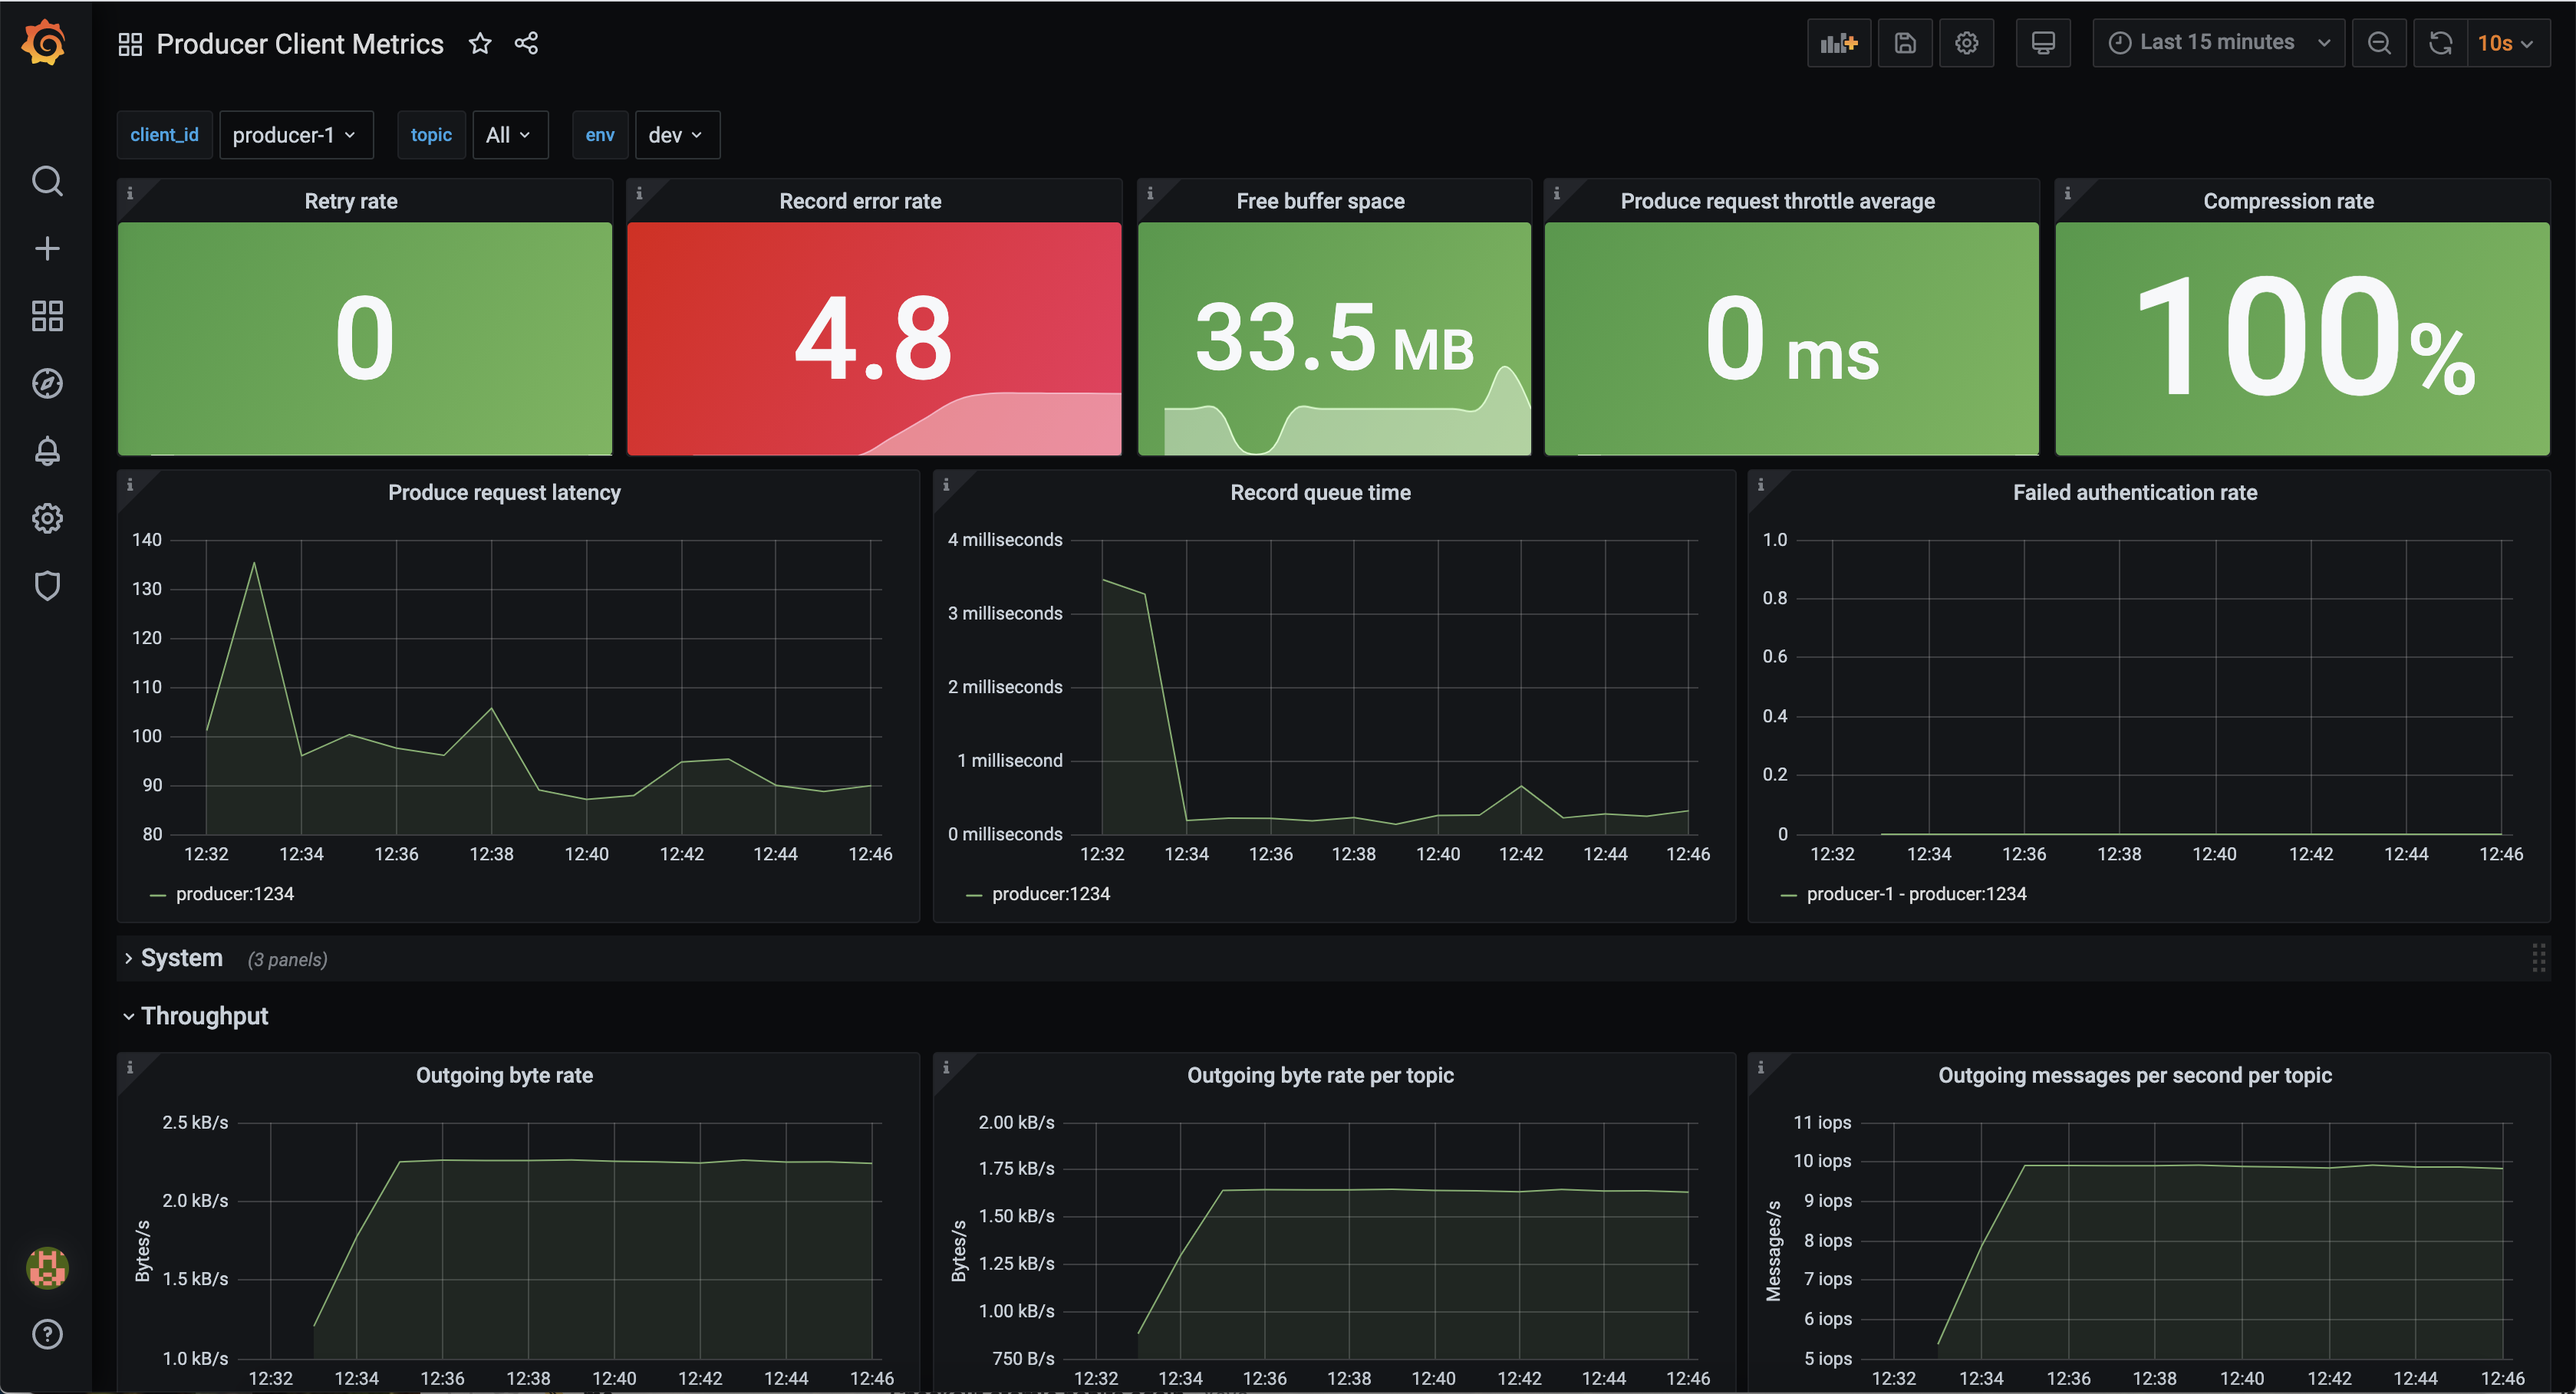
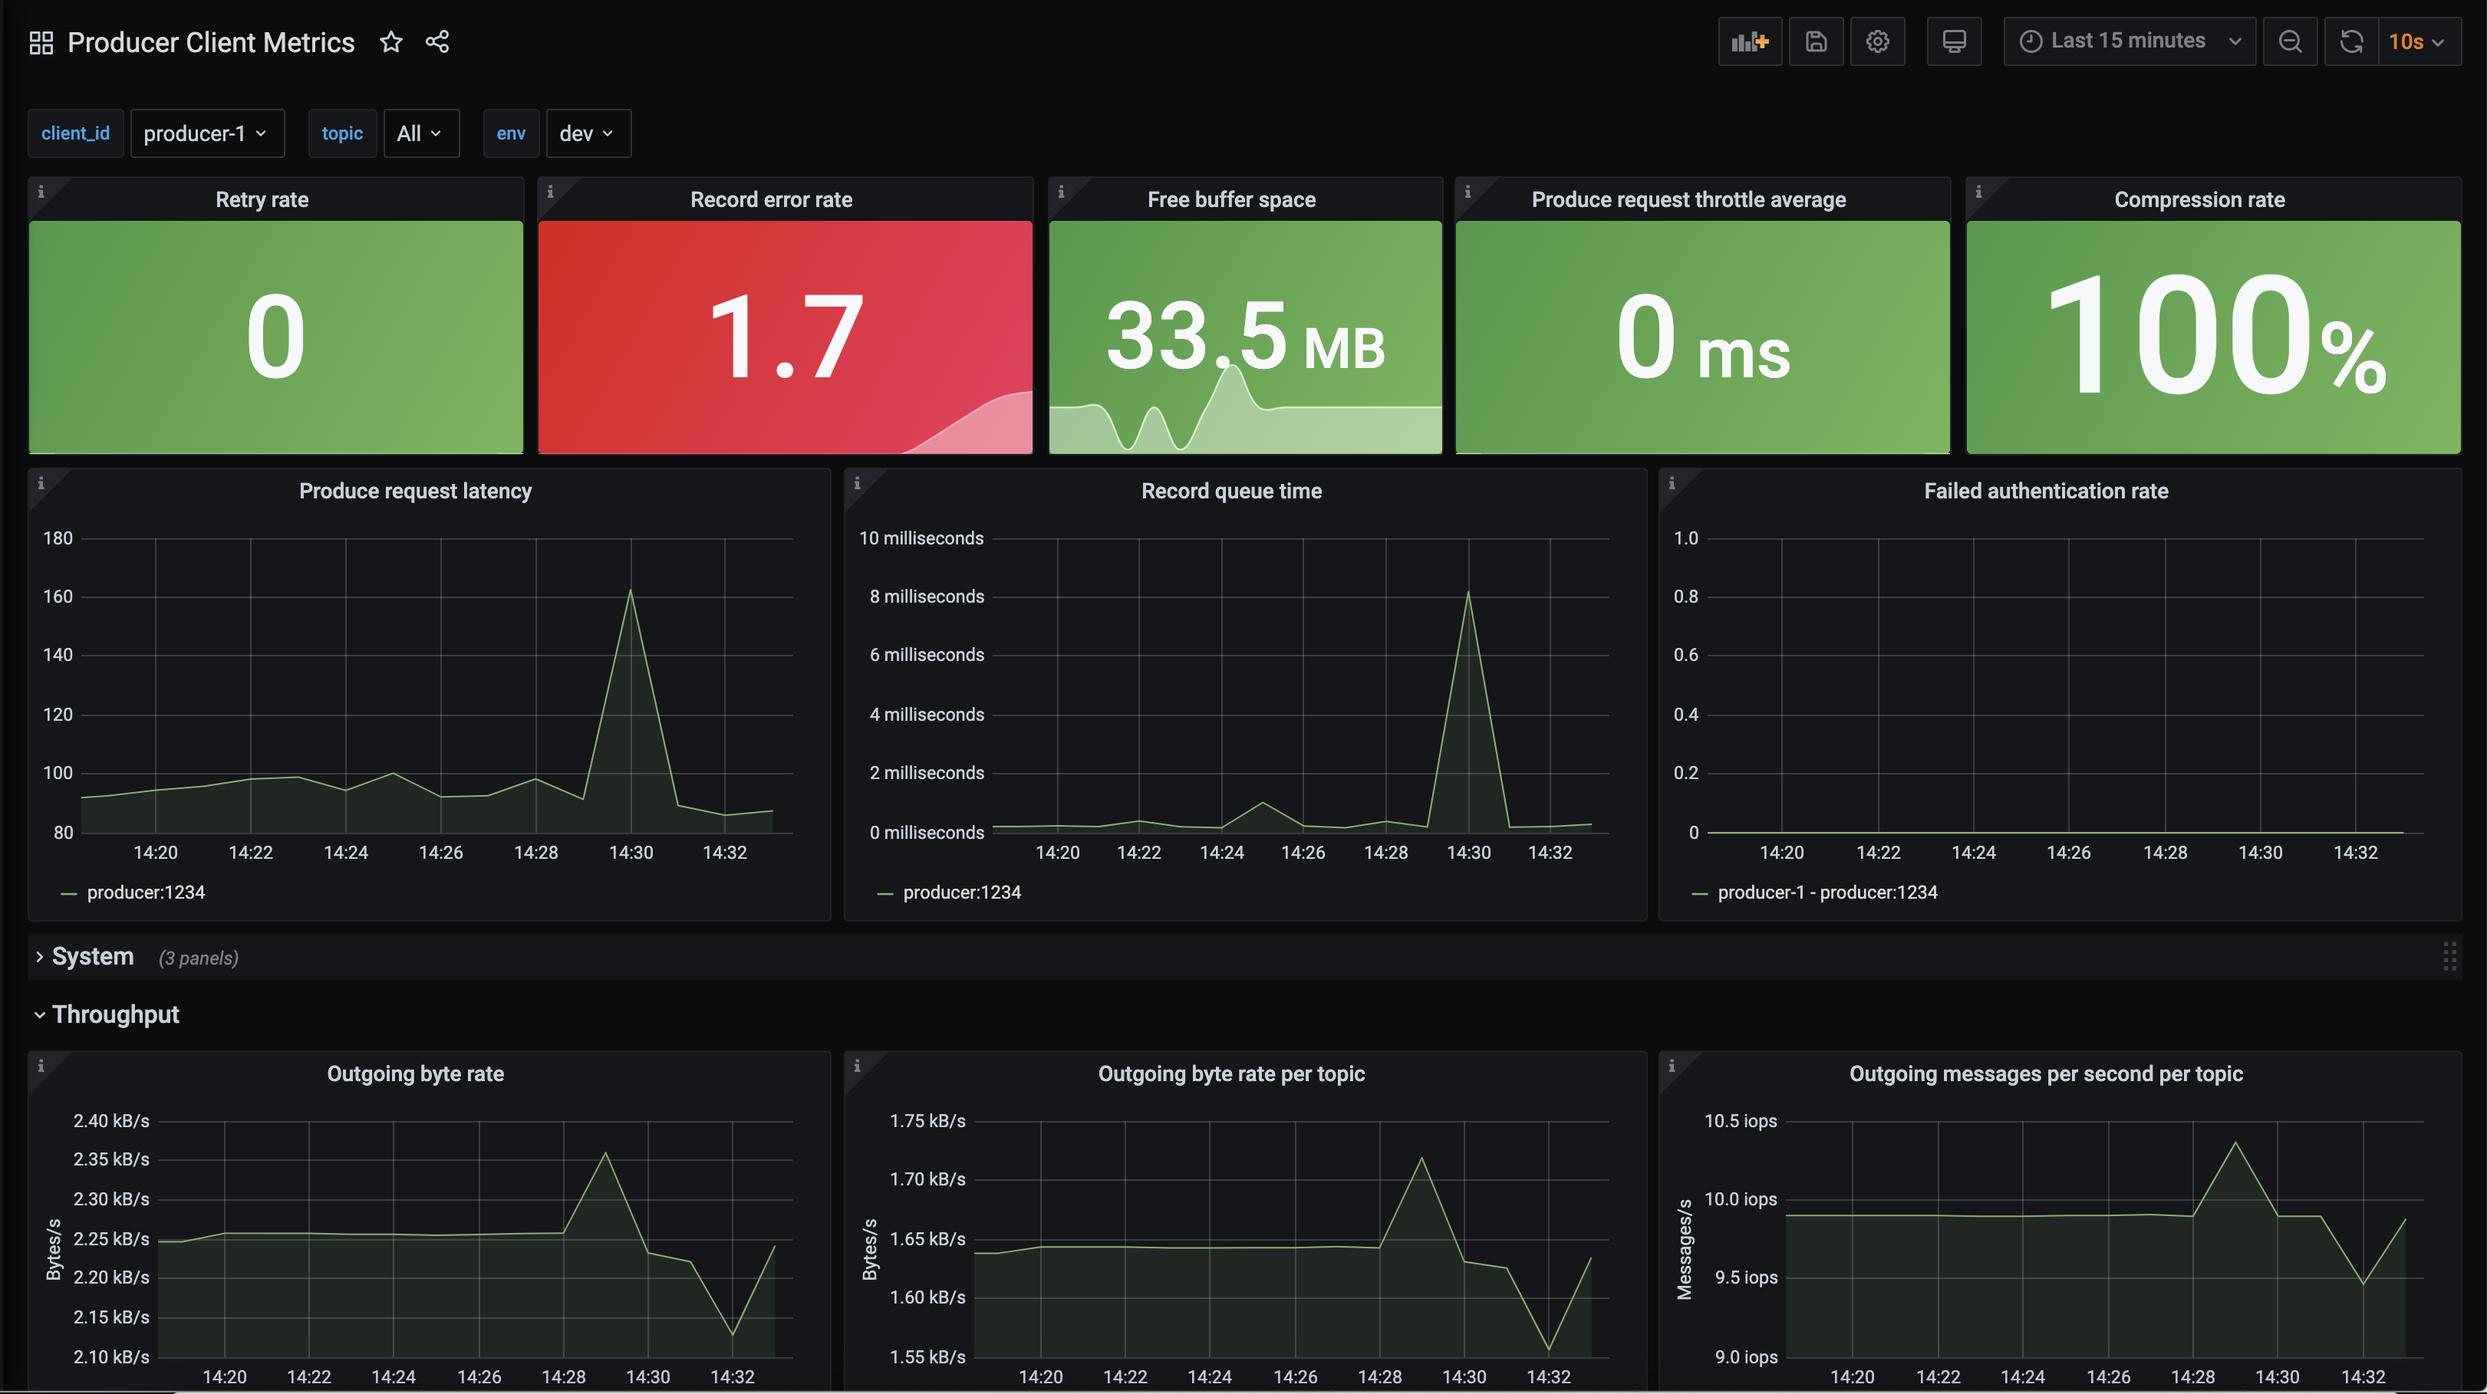
Add new ccloud dashboard view

diff --git a/ccloud-monitoring/docs/producer-scenarios/authorization-problem.rst b/ccloud-monitoring/docs/producer-scenarios/authorization-problem.rst
@@ -25,7 +25,7 @@ Diagnose the problem
 
    -  The top level panels like ``Record error rate`` (derived from |ak| MBean attribute ``record-error-rate``) should turn red, a major indication something is wrong.
 
-   -  Throughput, e.g. ``Outgoing byte rate``, shows the producer is successfully sending messages to the broker.  This is technically correct: the producer _is_ sending the batch of records to the broker but the broker is writing them to the log because of lack of authorization.
+   -  Throughput, e.g. ``Outgoing byte rate``, shows the producer is successfully sending messages to the broker.  This is technically correct: the producer _is_ sending the batch of records to the cluster but they are not being written to the log because of lack of authorization.
 
    |Producer Authorization Problem|
 
@@ -35,7 +35,9 @@ Diagnose the problem
 
    |Confluent Cloud Panel|
 
-#. Change the topics filter to show only ``demo-topic-1``.  Further down, notice that topic retained bytes has flattened, and topic sent bytes (records being sent to the consumer) has dropped to zero, because there are no new records to send to it.
+#. Change the topics filter to show only ``demo-topic-1``.  Notice that ``Topic retained bytes`` has flattened because the records sent by the producer are not getting written to the log, and ``Topic sent bytes`` (records being sent to the consumer) has dropped to zero, because there are no new records to send to it.
+
+   |Confluent Cloud Dashboard Producer Authorization Problem|
 
 #. Check the producer logs for more information about what is going wrong. Use the following docker command to get the producer logs:
 
@@ -87,6 +89,10 @@ Resolve failure scenario
 .. |Confluent Cloud Panel|
    image:: ../images/cloud-panel.png
    :alt: Confluent Cloud Panel
+
+.. |Confluent Cloud Dashboard Producer Authorization Problem|
+   image:: ../images/confluent-cloud-dashboard-producer-authorization-problem.png
+   :alt: Confluent Cloud Dashboard
 
 .. |Producer Authorization Problem|
    image:: ../images/producer-authorization-problem.png
